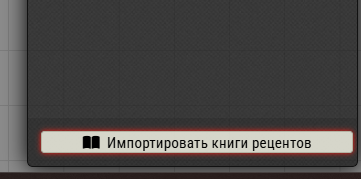
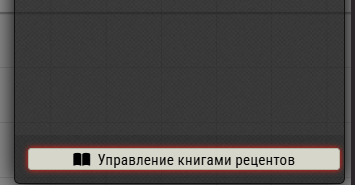
v1.0.3 Ownership manager.

Changed region(s): [[0.0, 0.0, 1.0, 1.0]]

diff --git a/scripts/consts.js b/scripts/consts.js
@@ -1,0 +1,4 @@
+export const EMCR_CONST = {
+    MODULE_ID: 'elfrey-mc-recipes',
+    MASTERCRAFTED_MODULE_ID: 'mastercrafted',
+}

diff --git a/README.md b/README.md
@@ -7,7 +7,8 @@
 * [MasterCrafted](https://foundryvtt.com/packages/mastercrafted) (Платный) 
 * [Kraywell Crafting Сompendium](https://github.com/Kraywell/Kraywell-Crafting-compendium) (Бесплатный)
 
-## Как пользоваться
+# Как пользоваться
+## Импорт рецептов
 1. Откройте модуль импорта на вкладке предметов
 
  ![img.png](img.png)
@@ -20,6 +21,12 @@
 
 ![img_2.png](img_2.png)
 
+## Настройка прав
+1. В интерфейса управления книгами нажмите на кнопку "Настройки прав"
+2. В окошке настройки прав выберите игрока, книгу, права, которые хотите выставить и максимальную сложность рецепта.
+3. При сохранении у всех рецептов, сложность которых ниже и равна Максимальной сложности, будет выставлены выбранные права выбранному игроку. Полезно когда вам нужно выставить права на множество рецептов в книге, а не по отдельности.
+
+![img_3.png](img_3.png)
 
 # Важно
 Из-за того, как написан MasterCrafted, если у вас много книг рецептов, или в них много рецептов, то интерфейс MC будет нещадно тормозить при первом открытии и если вы будете пытаться что-то изменить. Не загружайте большое количество книг, лучше только те, что нужны игркоам.
